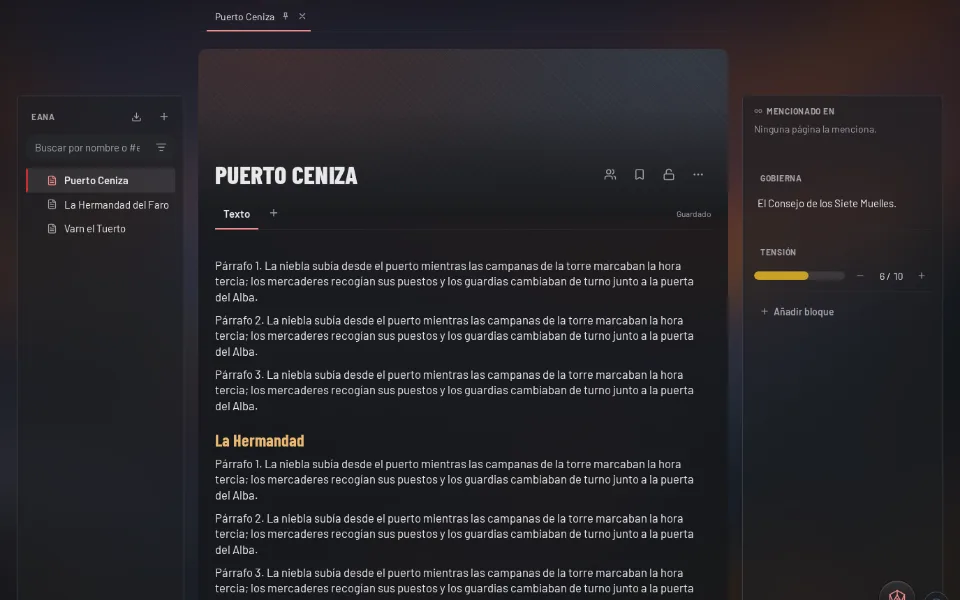
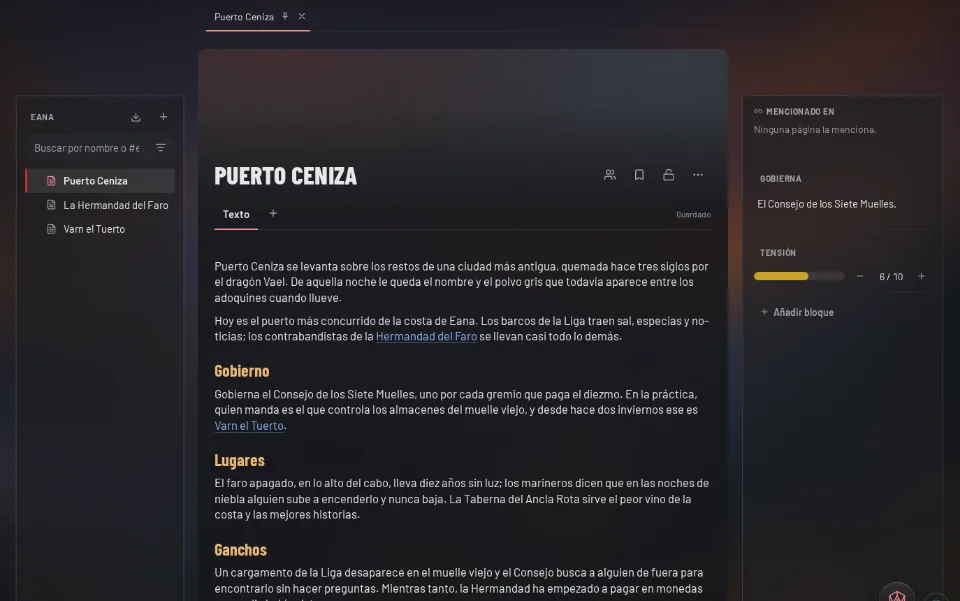
Tanda 5: la portada llega hasta arriba (la barra, transparente encima) y la estampa del mundo con un texto de verdad
Claude-Session: https://claude.ai/code/session_01AfT3yBpUV1Tz7fCRSnP624

diff --git a/apps/web/src/routes/root.module.css b/apps/web/src/routes/root.module.css
@@ -56,9 +56,22 @@
   text-decoration: none;
 }
 
-/* La portada: de lado a lado y sin márgenes (su imagen llega a los bordes) */
+/* La portada: de lado a lado y sin márgenes (su imagen llega a los bordes, también arriba: la barra va encima) */
 .full {
   min-inline-size: 0;
+}
+
+.shell[data-home] {
+  position: relative;
+  grid-template-rows: 1fr;
+}
+
+.shell[data-home] .header {
+  position: absolute;
+  inset-block-start: 0;
+  inset-inline: 0;
+  z-index: 2;
+  background: linear-gradient(to bottom, rgb(0 0 0 / 0.55), transparent);
 }
 
 .main {

diff --git a/apps/web/src/routes/root.tsx b/apps/web/src/routes/root.tsx
@@ -80,7 +80,7 @@ export function RootLayout() {
   // Sin sesión (entrar, unirse a una campaña): una barra sencilla arriba, con la marca, entrar y el tema
   if (!account) {
     return (
-      <div className={styles.shell}>
+      <div className={styles.shell} data-home={home || undefined}>
         {skip}
         <header className={styles.header}>
           <Link to="/" className={styles.brand} translate="no">

diff --git a/apps/web/src/routes/home.module.css b/apps/web/src/routes/home.module.css
@@ -7,7 +7,7 @@
   position: relative;
   display: grid;
   place-items: center;
-  min-block-size: calc(100dvh - 3.75rem);
+  min-block-size: 100dvh;
   overflow: hidden;
   isolation: isolate;
   padding: var(--space-8) var(--space-6);
